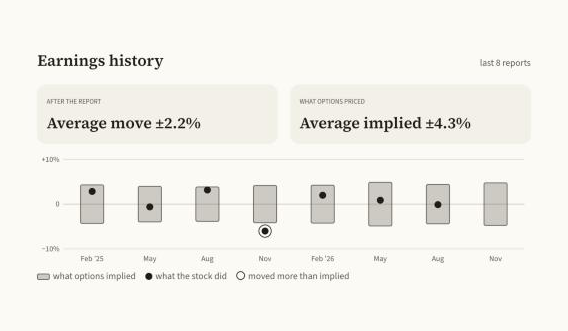
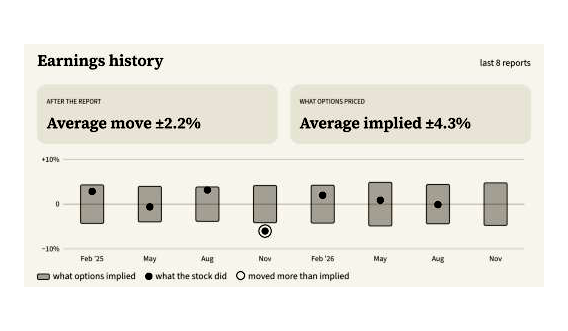
growth(blog): fold the reads, Tuesday's open, newsprint look

diff --git a/src/content/blog/home-depot-guidance-profit.md b/src/content/blog/home-depot-guidance-profit.md
@@ -5,11 +5,11 @@ publishAt: "2026-11-18T07:00:00-05:00"
 topic: "earnings"
 lens: "actuality"
 build: "text-led"
-look: "risograph"
+look: "newsprint"
 hit: "adds nothing to its profit forecast"
 image:
   src: "/blog-images/home-depot-guidance-profit.png"
-  alt: "Home Depot’s last 8 reports: the move options priced and the move made"
+  alt: "Home Depot’s last 8 reports: the move options priced, and 7 moves made"
   source: "TwiceOver’s Earnings history section, 17 Nov 2026, before the open"
   licence: "Own chart"
 sources: "Home Depot Q3 2026 release | https://ir.homedepot.com/news-releases/2026/11-17-2026-110221331; Home Depot CEO release | https://ir.homedepot.com/news-releases/2026/11-17-2026-104320345; Home Depot Q2 2026 release | https://www.sec.gov/Archives/edgar/data/0000354950/000035495026000145/hd_exhibit991x08022026.htm"
@@ -59,4 +59,4 @@ At Monday's close, the at-the-money straddle for Friday's expiry cost 4.8% of Ho
 
 The picture above shows the last eight reports from TwiceOver's Earnings history section. Each box is the move the options priced, which the section calls the implied move. Each dot is the move from the close before a report to the close after it. The last box is Tuesday's report, priced at Monday's close. In seven reports with a result, the stock moved more than priced once: in November 2025 it fell 6.0% against 4.2%. The average move, up or down, was 2.2%, about half the 4.3% the options priced on average. Our post on [25 stocks and the move options priced for earnings](/blog/earnings-implied-move-average) shows how often that holds across other companies. When the move comes in under the price, a call bought the day before can lose money on a rise, as [our IV crush example](/blog/iv-crush-call-before-earnings) works out.
 
-On Tuesday, Home Depot traded at TKPRICE at TKTIME New York time, TKMOVE from Monday's $347.51 close.
+On Tuesday, Home Depot opened at $335.07, 3.6% under Monday's $347.51 close. At 9:41 a.m. New York time it traded at $339.00, 2.4% under that close. Both sit inside the 4.8% the options priced.
